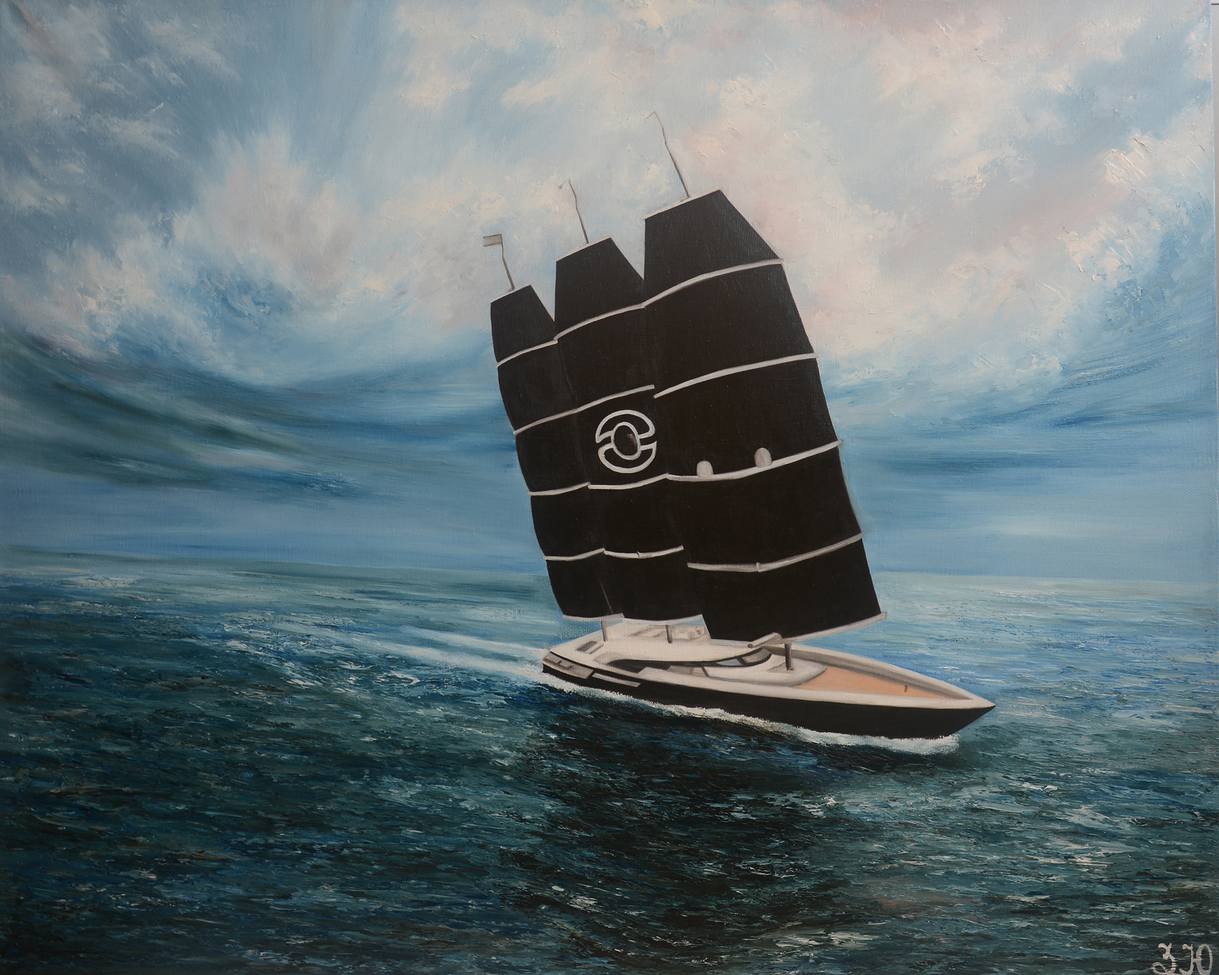
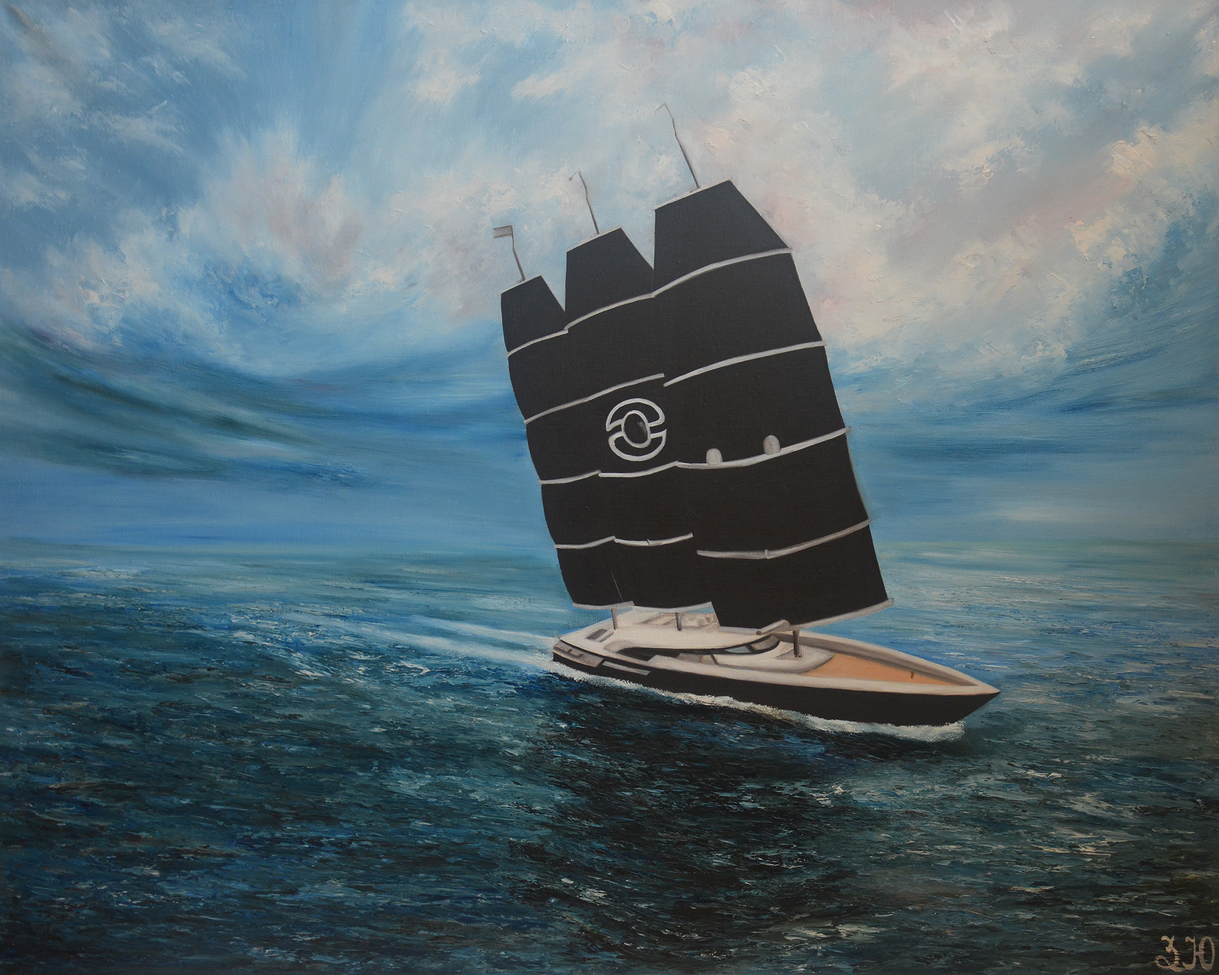
заменена картина

diff --git a/paintings/index.html b/paintings/index.html
@@ -51,7 +51,7 @@
                                 <a href="/paintings/1ee60033-afab-5dd4-98ab-c04a1b45037b.large.jpg" itemprop="contentUrl" data-size="2362x1890">
                                     <img class="img-thumbnail imageBig" src="/paintings/1ee60033-afab-5dd4-98ab-c04a1b45037b.small.jpg" itemprop="thumbnail" alt="BLACK PEARL" data-index="1 ">
                                 </a>
-                                <p class="label label-default sizeLabel">2.5 Mb</p>
+                                <p class="label label-default sizeLabel">2.7 Mb</p>
                             </div>
 
                             <div class="col-md-6 col-md-pull-6 imageAlignRight">
